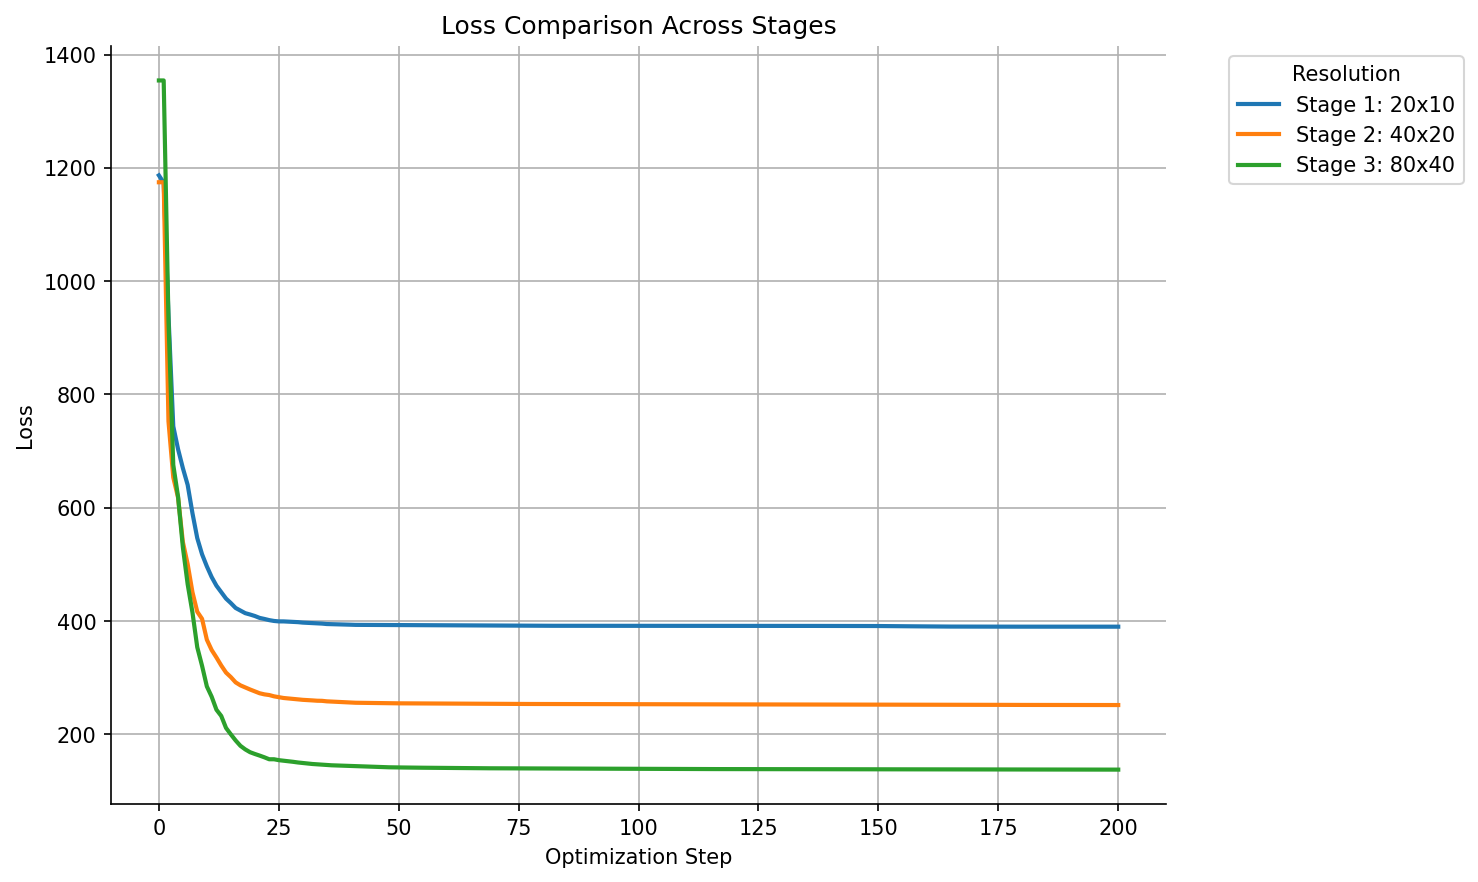
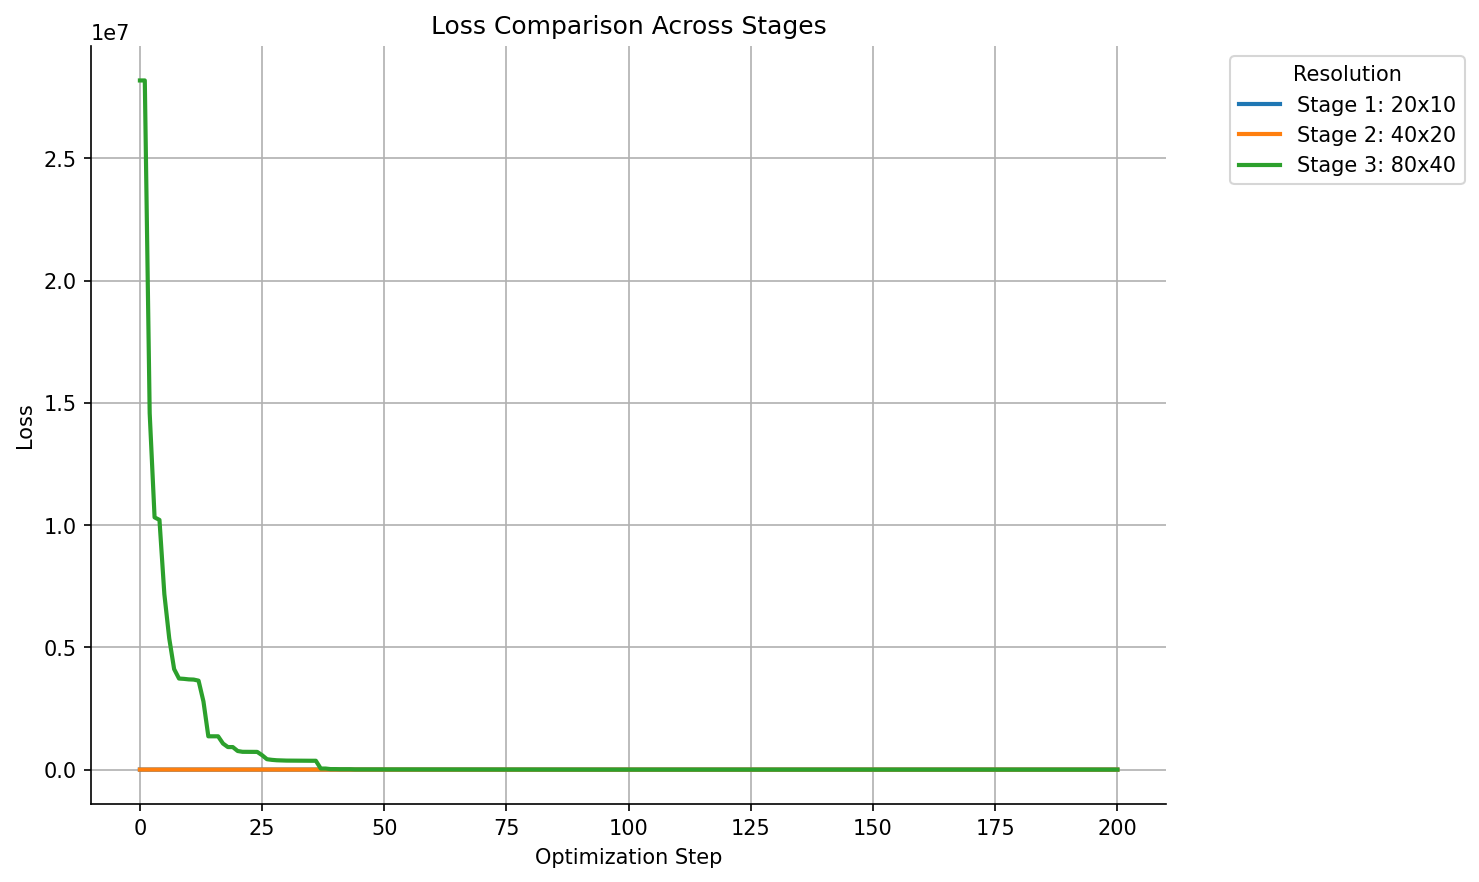
CNNModelAdaptive weight transfer... works?
results are a little unhinged

diff --git a/neural_structural_optimization/models.py b/neural_structural_optimization/models.py
@@ -263,10 +263,16 @@ class CNNModelAdaptive(CNNModel):
     self.conv_filters = cnn_kwargs['conv_filters']
     self.dense_channels = cnn_kwargs['dense_channels']
 
+    # Get weights from current model before rebuilding
+    old_weights = self.z.numpy()
+
     # Build new model with greater upsamplings / larger dense layer
     self._rebuild_model()
 
   def _rebuild_model(self):
+    # get old weights
+    prev_weights = {layer.name: [w.numpy() for w in layer.weights] for layer in self.model.layers}
+
     activation = layers.Activation(tf.nn.tanh) 
     
     total_upsample = int(np.prod(self.upsample_factors))
@@ -275,20 +281,45 @@ class CNNModelAdaptive(CNNModel):
 
     net = inputs = layers.Input((self.latent_size,), batch_size=1)
     filters = h * w * self.dense_channels
+
     dense_initializer = tf.initializers.orthogonal(
         np.sqrt(max(filters / self.latent_size, 1)))
     net = layers.Dense(filters, kernel_initializer=dense_initializer)(net)
     net = layers.Reshape([h, w, self.dense_channels])(net)
     
     for i, (upsample_factor, filters) in enumerate(zip(self.upsample_factors, self.conv_filters)):
+        idx = len(self.upsample_factors) - i - 1
         net = activation(net)
-        net = layers.UpSampling2D(upsample_factor)(net)
+        net = layers.UpSampling2D(upsample_factor, name=f"upsampling_{idx}")(net)
         net = self.normalization(net)
+
         net = layers.Conv2D(filters, self.kernel_size,
                             kernel_initializer=self.conv_initializer, 
-                            padding="same")(net)
+                            padding="same",
+                            name=f"conv2d_{idx}")(net)
+
         if self.offset_scale != 0:
             net = AddOffset(self.offset_scale)(net)
 
     outputs = tf.squeeze(net, axis=[-1])
     self.model = tf.keras.Model(inputs=inputs, outputs=outputs)
+
+    transferred = 0
+    for layer in self.model.layers:
+      if layer.name in prev_weights and layer.weights:
+        try:
+          # Check if weight shapes are compatible
+          prev_weight_shapes = [w.shape for w in prev_weights[layer.name]]
+          new_weight_shapes = [w.shape for w in layer.weights]
+          
+          if prev_weight_shapes == new_weight_shapes:
+              layer.set_weights(prev_weights[layer.name])
+              transferred += 1
+              print(f"Transferred weights for layer: {layer.name}")
+          else:
+              print(f"Skipped {layer.name}: shape mismatch {prev_weight_shapes} vs {new_weight_shapes}")
+        except Exception as e:
+            print(f"Failed to transfer {layer.name}: {e}")
+            continue
+
+    print(f"Transferred weights for {transferred} layers")

diff --git a/script/run.py b/script/run.py
@@ -68,7 +68,7 @@ def main():
         # model = models.CNNModel(problem_params=params, **dynamic_kwargs)
         # ds_history = train.train_lbfgs(model, max_iterations)
 
-        model = models.CNNModelAdaptive(problem_params=params, resize_num=3, **dynamic_kwargs)
+        model = models.CNNModelAdaptive(problem_params=params, resize_num=4, **dynamic_kwargs)
         ds_history = train.train_progressive(model, max_iterations, alg=train.train_lbfgs)
 
         if not isinstance(ds_history, (list, np.ndarray)):
